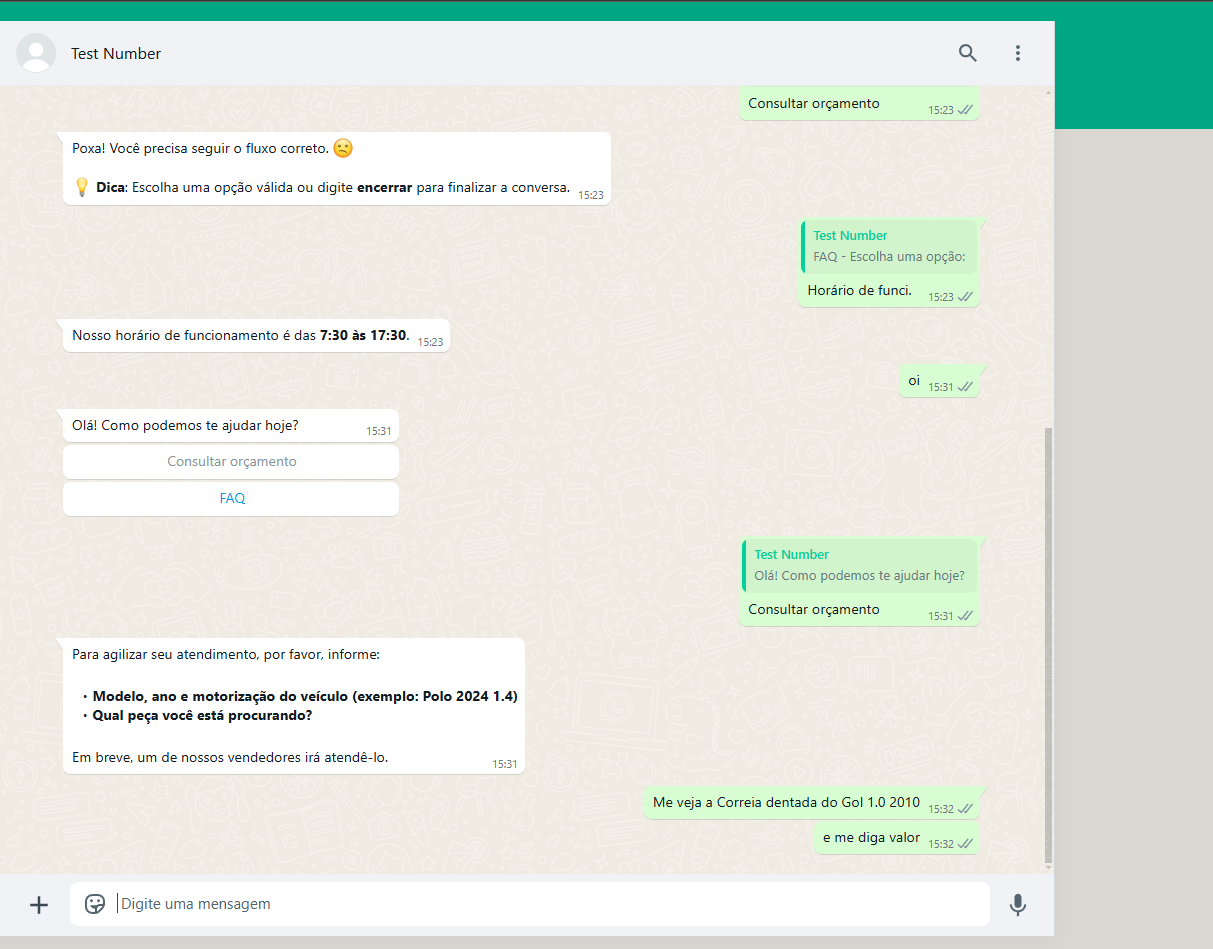
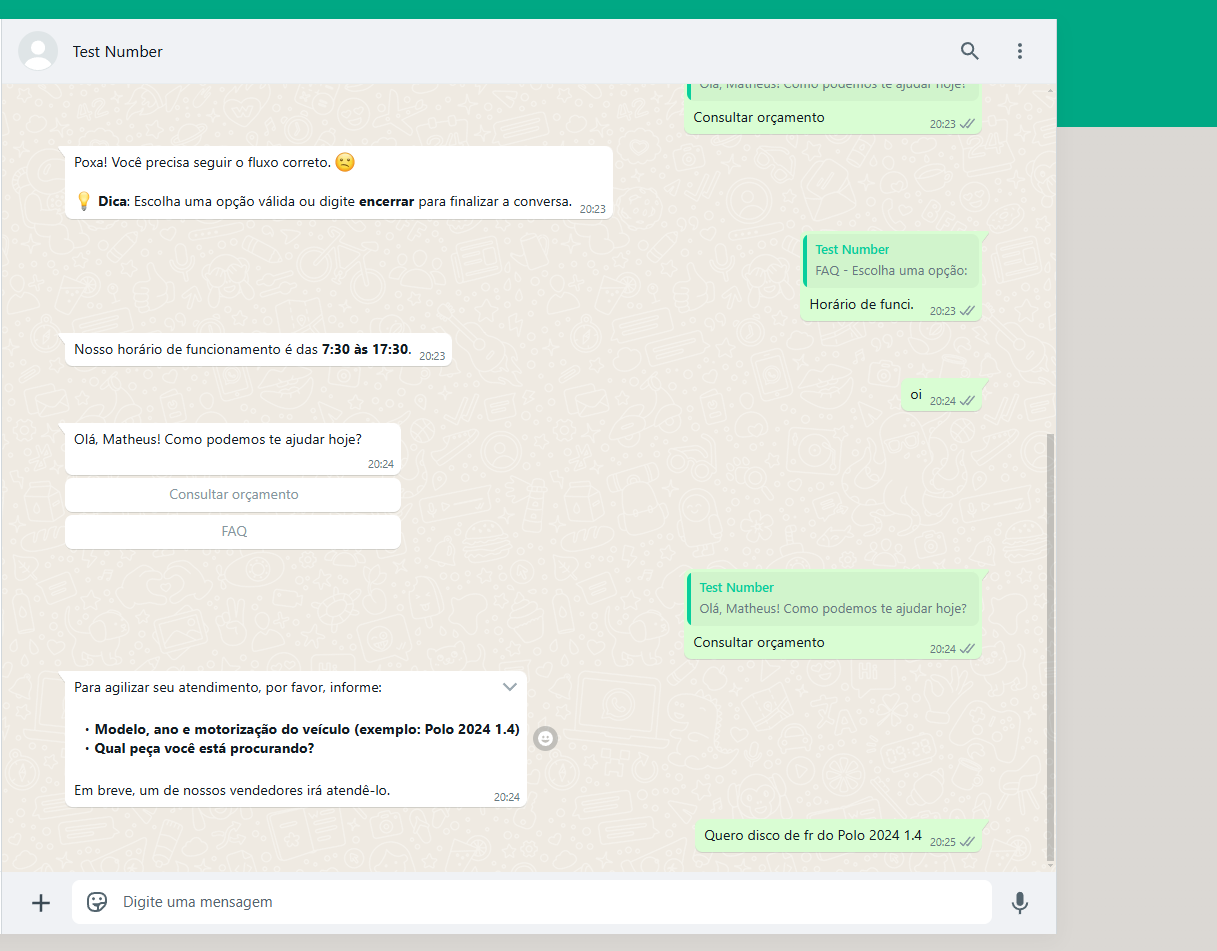
feat: refactor e add name client start msg

diff --git a/src/route.js b/src/route.js
@@ -14,13 +14,14 @@ v1Router.post("/webhook", async (req, res) => {
   const message = body.entry?.[0]?.changes?.[0]?.value?.messages?.[0];
   if (!message) return res.sendStatus(200);
 
+  const name = body.entry?.[0]?.changes?.[0]?.value?.contacts?.[0].profile?.name;
   const from = message.from; // Número do cliente
   const text = message.text?.body?.toLowerCase(); // Mensagem recebida
   const button_id = message.interactive?.button_reply.id; // ID do botão pressionado
   const button_title = message.interactive?.button_reply.title;
+  const button_key = `${button_id}_${button_title}`;
 
   let escolhaAnterior = clientesInteragiram.get(from) || null;
-      
   const fluxoPermitido = {
     "Inicio": ["Consultar orçamento", "FAQ"],
     "Consultar orçamento": [],
@@ -31,22 +32,22 @@ v1Router.post("/webhook", async (req, res) => {
 
   reiniciarTimeout(from);
 
-  // Finalizar conversa (/end)
-  if (text?.includes("/end") && isOwner(from)) {
-    await sendMessage(from, messages.obrigado);
-    clientesInteragiram.delete(from);
-    clientesEmAtendimento.delete(from);
-    return res.sendStatus(200);
-  }
-        
-  // Finalização de pagamento (/pay)
-  if (text?.includes("/pay") && isOwner(from)) {
-    await sendInteractiveMessage(from, "Escolha a forma de pagamento via PIX:", [
-      "QR Code 📸",
-      "CNPJ 🏢",
-      "Pix Copia e Cola 📋",
-    ]);
-    return res.sendStatus(200);
+  if (isOwner(from)) {
+    if (text?.includes("/end")) {
+      await sendMessage(from, messages.obrigado);
+      clientesInteragiram.delete(from);
+      clientesEmAtendimento.delete(from);
+      return res.sendStatus(200);
+    }
+    
+    if (text?.includes("/pay")) {
+      await sendInteractiveMessage(from, "Escolha a forma de pagamento via PIX:", [
+        "QR Code 📸",
+        "CNPJ 🏢",
+        "Pix Copia e Cola 📋",
+      ]);
+      return res.sendStatus(200);
+    }
   }
 
   // 🚫 Se o cliente está em atendimento humano, não interagir
@@ -56,7 +57,7 @@ v1Router.post("/webhook", async (req, res) => {
 
   // Se o cliente ainda não interagiu, envia as opções iniciais
   if (!clientesInteragiram.has(from)) {
-    await sendInteractiveMessage(from, messages.inicio, fluxoPermitido["Inicio"]);
+    await sendInteractiveMessage(from, `${messages.inicio_1} ${name}! ${messages.inicio_2}`, fluxoPermitido["Inicio"]);
 
     clientesInteragiram.set(from, "Inicio");
     iniciarTimeout(from);
@@ -79,51 +80,38 @@ v1Router.post("/webhook", async (req, res) => {
   // ✅ Agora podemos registrar a nova escolha
   clientesInteragiram.set(from, button_title);
 
-  // Se escolheu "Consultar orçamento"
-  if (button_id === "btn_0" && button_title === "Consultar orçamento") {
-    await sendMessage(from, messages.consultar_orcamento);
-    clientesEmAtendimento.set(from, true);
-    return res.sendStatus(200);
-  }
+  const actions = {
+    "btn_0_Consultar orçamento": async () => {
+      await sendMessage(from, messages.consultar_orcamento);
+      clientesEmAtendimento.set(from, true);
+    },
+    "btn_1_FAQ": async () => {
+      await sendInteractiveMessage(from, messages.faq_opcoes, fluxoPermitido["FAQ"]);
+    },
+    "btn_0_Horário de funci.": async () => {
+      await sendMessage(from, messages.horario_funcionamento);
+      clientesInteragiram.delete(from);
+    },
+    "btn_1_Formas de pagamento": async () => {
+      await sendMessage(from, messages.formas_pagamento);
+      clientesInteragiram.delete(from);
+    },
+    "btn_0_QR Code 📸": async () => {
+      await sendMessage(from, messages.pagamento_qr);
+      await sendMessage(from, messages.confirmacao_pagamento);
+    },
+    "btn_1_CNPJ 🏢": async () => {
+      await sendMessage(from, messages.pagamento_cnpj);
+      await sendMessage(from, messages.confirmacao_pagamento);
+    },
+    "btn_2_Pix Copia e Cola 📋": async () => {
+      await sendMessage(from, messages.pagamento_pix);
+      await sendMessage(from, messages.confirmacao_pagamento);
+    }
+  };
 
-  // Se escolheu "FAQ"
-  if (button_id === "btn_1" && button_title === "FAQ") {
-    await sendInteractiveMessage(from, messages.faq_opcoes, fluxoPermitido["FAQ"]);
-    return res.sendStatus(200);
-  }
-
-  // Respostas do FAQ
-  if (button_id === "btn_0" && button_title === "Horário de funci.") {
-    await sendMessage(from, messages.horario_funcionamento);
-    clientesInteragiram.delete(from);
-    return res.sendStatus(200);
-  }
-
-  if (button_id === "btn_1" && button_title === "Formas de pagamento") {
-    await sendMessage(from, messages.formas_pagamento);
-    clientesInteragiram.delete(from);
-    return res.sendStatus(200);
-  }
-
-  // Se escolher pagamento por QR Code
-  if (button_id === "btn_0" && button_title === "QR Code 📸") {
-    await sendMessage(from, messages.pagamento_qr);
-    await sendMessage(from, messages.confirmacao_pagamento);
-    return res.sendStatus(200);
-  }
-
-  // Se escolher pagamento por CNPJ
-  if (button_id === "btn_1" && button_title === "CNPJ 🏢") {
-    await sendMessage(from, messages.pagamento_cnpj);
-    await sendMessage(from, messages.confirmacao_pagamento);
-    return res.sendStatus(200);
-  }
-
-  // Se escolher Pix Copia e Cola
-  if (button_id === "btn_2" && button_title === "Pix Copia e Cola 📋") {
-    await sendMessage(from, messages.pagamento_pix);
-    await sendMessage(from, messages.confirmacao_pagamento);
-    return res.sendStatus(200);
+  if (actions[button_key]) {
+    await actions[button_key]();
   }
     
   res.sendStatus(200);

diff --git a/src/AI/openAI.js b/src/AI/openAI.js
@@ -1,15 +1,11 @@
 const OpenAI = require("openai");
-require('dotenv').config()
 
 const openai = new OpenAI({
   apiKey: process.env.OPENAI_API_KEY,
 });
 
-async function suggestPiece(mensagemCliente) {
-  const prompt = `Você é um assistente especializado em autopeças. Baseado na solicitação do cliente, sugira a peça correta e outras marcas disponíveis. 
-
-Cliente: "${mensagemCliente}"
-Resposta:`;
+async function openAI(script) {
+  const prompt = script;
 
   try {
     const response = await openai.chat.completions.create({
@@ -27,10 +23,6 @@ Resposta:`;
   }
 }
 
-// Exemplo de uso
-//suggestPiece("Preciso de um disco de freio para Polo 1.0 2018").then(console.log);
-//suggestPiece("Preciso de um disco de freio para virtus 1.6 msi 2018").then(console.log);
-
 module.exports = {
-  suggestPiece
+  openAI
 }

diff --git a/src/utils/suggestPiece.js b/src/utils/suggestPiece.js
@@ -1,0 +1,25 @@
+const { studioAI } = require("../AI");
+
+function suggestPiece(mensagem) {
+  const instructions = `Você é um assistente especializado em autopeças. Baseado na solicitação do cliente, sugira a peça correta e outras marcas disponíveis. 
+
+  Cliente: "${mensagem}"
+
+  Exemplo da estrutura que deve ser seguida sem falar mais nada alem disso: 
+  Para o Virtus 1.6 MSI 2018, o disco de freio recomendado geralmente é:
+
+  Modelo principal: D31J
+  Outras marcas disponíveis:
+  Bosch - 0986AB9550
+  Fremax - BD1264
+  TRW - DF4463`
+
+  const res = studioAI(instructions)
+  return res;
+}
+
+// Simulação de mensagens recebidas
+const mensagemCliente = "Quero um par de pastilha de freio dianteira para meu carro.";
+const sugestao = suggestPiece(mensagemCliente);
+
+console.log(sugestao); 

diff --git a/src/utils/upsellAI.js b/src/utils/upsellAI.js
@@ -1,0 +1,19 @@
+const { studioAI } = require("../AI");
+
+function suggestComplement(mensagem) {
+  const instructions = `
+    Você é um assistente especializado em autopeças. Seu objetivo é sugerir itens complementares com base na peça mencionada pelo cliente.
+
+    Responda apenas com o nome da peça sugerida.
+    Não inclua explicações, saudações ou frases adicionais
+
+    Cliente: "${mensagem}"
+  `;
+
+  const res = studioAI(instructions)
+  return `Que tal aproveitar e levar também o ${res}? Posso verificar o estoque para você!`;
+}
+
+// Simulação de mensagens recebidas
+const mensagemCliente = "Quero um par de pastilha de freio dianteira para meu carro.";
+suggestComplement(mensagemCliente); // Disco de freio dianteiro

diff --git a/src/AI/studioAI.js b/src/AI/studioAI.js
@@ -1,0 +1,23 @@
+const { GoogleGenerativeAI } = require("@google/generative-ai");
+require('dotenv').config();
+
+const genAI = new GoogleGenerativeAI(process.env.STUDIOAI_API_KEY);
+const model = genAI.getGenerativeModel({ model: "gemini-1.5-pro" });
+
+async function studioAI(script) {
+  const prompt = script;
+
+  try {
+    const result = await model.generateContent(prompt);
+    const sugestao = result.response.text().trim();
+    
+    return sugestao;
+  } catch (error) {
+    console.error("Erro ao obter sugestão:", error);
+    return "Não foi possível sugerir uma peça no momento.";
+  }
+}
+
+module.exports = {
+  studioAI
+};

diff --git a/src/AI/index.js b/src/AI/index.js
@@ -1,7 +1,7 @@
-const { suggestPiece: suggestPieceStudioAI } = require("./suggestPieceStudioAI");
-const { suggestPiece: suggestPieceOpenAI } = require("./suggestPieceOpenAI");
+const { studioAI } = require("./studioAI");
+const { openAI } = require("./openAI");
 
 module.exports = {
-  suggestPieceOpenAI,
-  suggestPieceStudioAI
+  studioAI,
+  openAI
 };

diff --git a/README.md b/README.md
@@ -8,6 +8,7 @@ Automatize seu atendimento no WhatsApp com o WPP Bot Ecommerce.
 
 ## 🖼 Preview
 
+![alt text](docs/image.png "Scree Home")
 ![alt text](docs/preview.png "Scree Home")
 
 - Encerra conversa por inatividade
